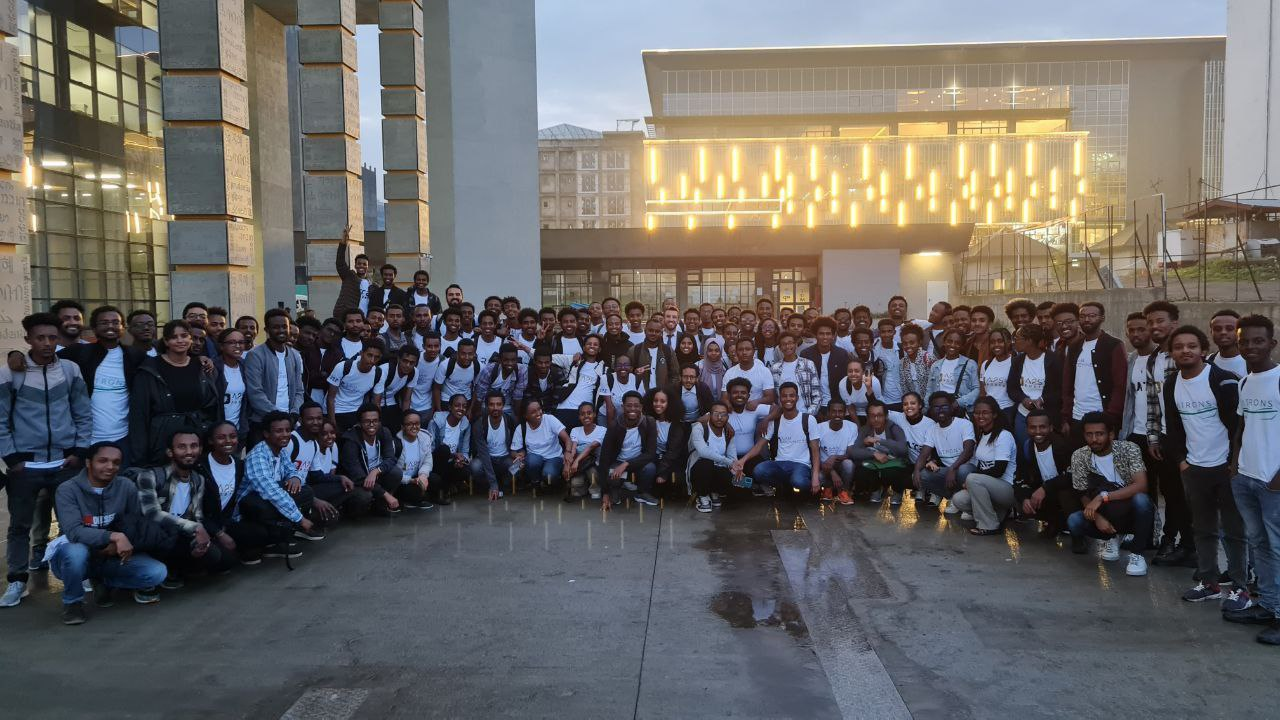
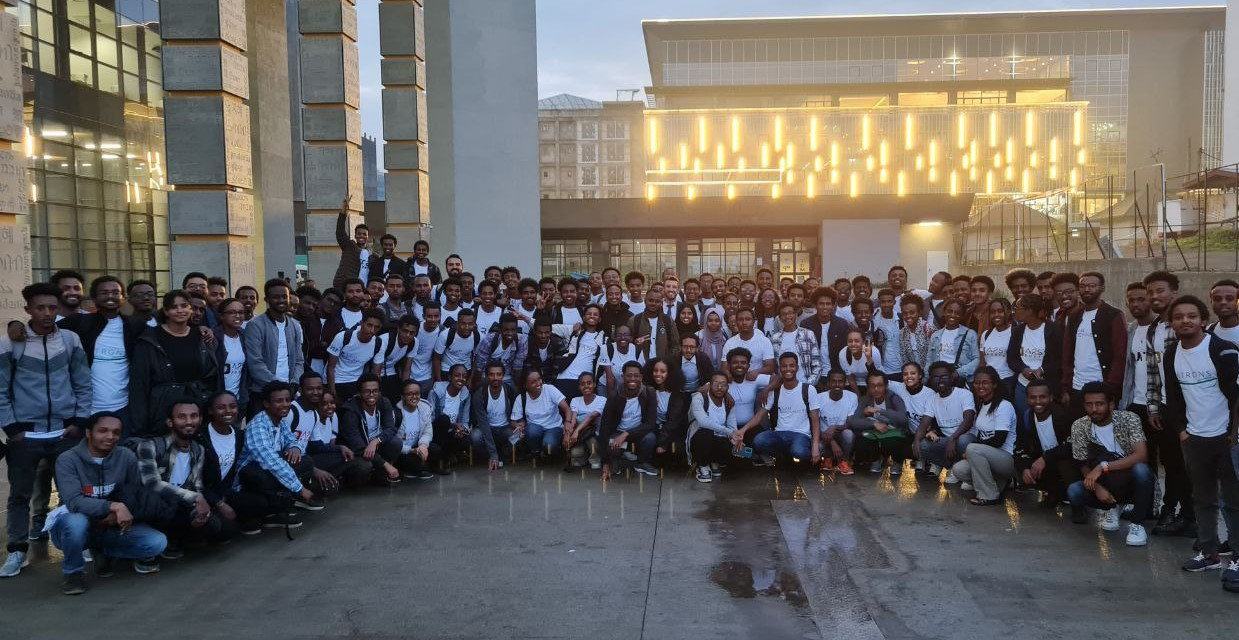
fix the landing page

diff --git a/src/components/home/Landing.tsx b/src/components/home/Landing.tsx
@@ -1,32 +1,37 @@
+import { RootState } from "<@>/store";
 import { motion } from "framer-motion";
 import Image from "next/image";
 import Link from "next/link";
 import { useRouter } from "next/router";
 import React from "react";
 import { AiOutlineRight } from "react-icons/ai";
+import { useSelector } from "react-redux";
 
 const Landing: React.FC = () => {
   const router = useRouter();
   const handleJoinUs = () => {
     router.push("/auth/signup");
   };
+  const isAuthenticated = useSelector(
+    (state: RootState) => state.auth.isAuthenticated
+  );
   return (
     <div className="bg-primarybg font-poppins ">
       <div className="relative">
         <Image
-          src="/images/home/home1.jpg"
+          src="/images/home/home2.jpg"
           alt="landing-image"
           width={2000}
           height={1000}
           className="brightness-50"
         />
-        <div className="md:absolute bottom-0.5 left-16 text-primary-text md:text-primarybg w-1/1 md:w-7/12 lg:w-1/2 text-lg lg:bottom-1/4 m-4 md:m-0">
-          <div className="mb-8 md:m-0 m-4">
-            <h1 className="text-xl sm:text-2xl md:text-4xl lg:text-5xl font-extrabold lg:font-bold md:pt-0 pt-8">
+        <div className="md:absolute bottom-0.5 left-16 text-primary-text md:text-primarybg w-1/1 md:w-7/12 lg:w-1/2 lg:top-16 md:bottom-1/4  m-4 md:m-0">
+          <div className="md:m-0 m-4">
+            <h1 className="text-xl sm:text-2xl md:text-4xl lg:text-4xl font-extrabold lg:font-bold md:pt-16 pt-8">
               Who We Are
             </h1>
             <motion.p
-              className="mt-8 md:text-lg lg:text-xl"
+              className="mt-8 md:text-lg lg:text-xl lg:mt-24 xl:mb-12 text-secondary-text md:text-primarybg"
               initial={{ opacity: 0 }}
               animate={{ opacity: 1 }}
               transition={{ duration: 2 }}
@@ -40,24 +45,26 @@ const Landing: React.FC = () => {
             </motion.p>
           </div>
           <motion.div
-            className="flex flex-row mt-4 mx-auto my-auto"
+            className="flex flex-row mt-4 mx-auto my-auto mb:mb-16 lg:text-lg md"
             initial={{ opacity: 0 }}
             animate={{ opacity: 1 }}
             transition={{ duration: 3 }}
           >
-            <motion.button
-              className="ml-2 md:ml-0 bg-primary px-2 sm:px-4 md:px-16 lg:px-24 xl:px-28 py-2 rounded-md mr-4 lg:mr-12 hover:bg-blue-400 font-semibold sm:font-bold text-white"
-              initial={{ scale: 0.9 }}
-              whileHover={{
-                scale: 1,
-                transition: {
-                  duration: 0.5,
-                },
-              }}
-              onClick={handleJoinUs}
-            >
-              Join Us
-            </motion.button>
+            {!isAuthenticated && (
+              <motion.button
+                className="ml-2 md:ml-0 bg-primary px-2 sm:px-4 md:px-16 lg:px-24 xl:px-28 py-2 rounded-md mr-4 lg:mr-12 hover:bg-blue-400 font-semibold sm:font-bold text-white lg:py-3"
+                initial={{ scale: 0.9 }}
+                whileHover={{
+                  scale: 1,
+                  transition: {
+                    duration: 0.5,
+                  },
+                }}
+                onClick={handleJoinUs}
+              >
+                Join Us
+              </motion.button>
+            )}
 
             <Link href={"#more"}>
               <div className="flex flex-row">

diff --git a/src/components/home/GetStarted.tsx b/src/components/home/GetStarted.tsx
@@ -1,11 +1,16 @@
+import { RootState } from "<@>/store";
 import { useRouter } from "next/router";
 import React from "react";
+import { useSelector } from "react-redux";
 
 const GetStarted: React.FC = () => {
   const router = useRouter();
   const handleGetStarted = () => {
     router.push("/auth/signup");
   };
+  const isAuthenticated = useSelector(
+    (state: RootState) => state.auth.isAuthenticated
+  );
   return (
     <div className="mt-16 h-full mb-16 lg:h-52 my-auto mx-auto bg-primary w-full text-white font-poppins tracking-wider leading-10">
       <h1 className="text-xl sm:text-2xl lg:text-3xl font-bold ml-8 md:ml-28 mt-8">
@@ -17,14 +22,16 @@ const GetStarted: React.FC = () => {
           limitless possibilities and join A2SV today. Together, let's unlock
           your true potential and create a brighter future through technology.
         </p>
-        <div className="col-span-2 text-xl mt-8 ml-8 md:ml-20 lg:ml-8 py-auto px-auto  mb-8">
-          <button
-            className="bg-white text-primary py-3 px-8 ml-2 md:ml-8 rounded-lg hover:bg-primary hover:text-white hover:border-2 hover:border-white transition duration-500"
-            onClick={handleGetStarted}
-          >
-            Get Started
-          </button>
-        </div>
+        {!isAuthenticated && (
+          <div className="col-span-2 text-xl mt-8 ml-8 md:ml-20 lg:ml-8 py-auto px-auto  mb-8">
+            <button
+              className="bg-white text-primary py-3 px-8 ml-2 md:ml-8 rounded-lg hover:scale-110 transition duration-300"
+              onClick={handleGetStarted}
+            >
+              Get Started
+            </button>
+          </div>
+        )}
       </div>
     </div>
   );
